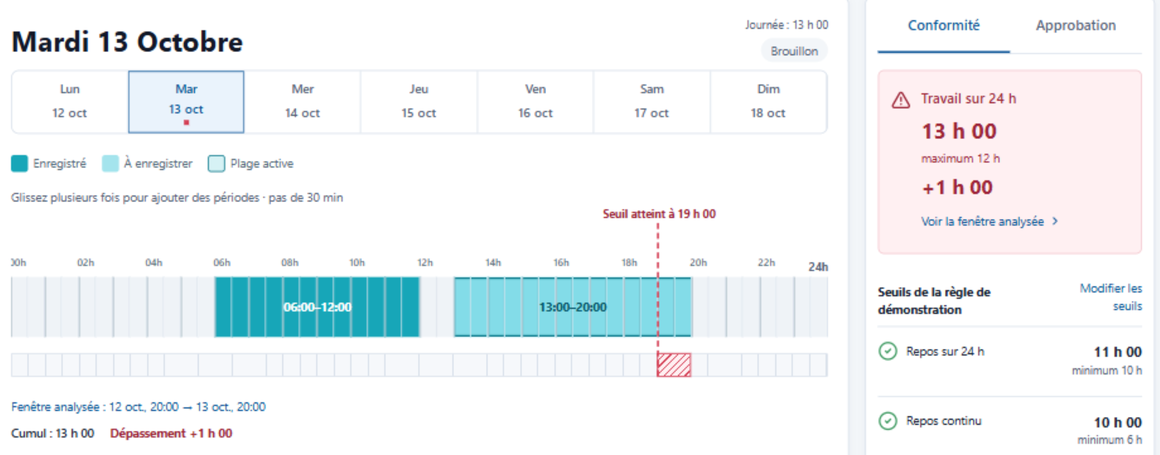
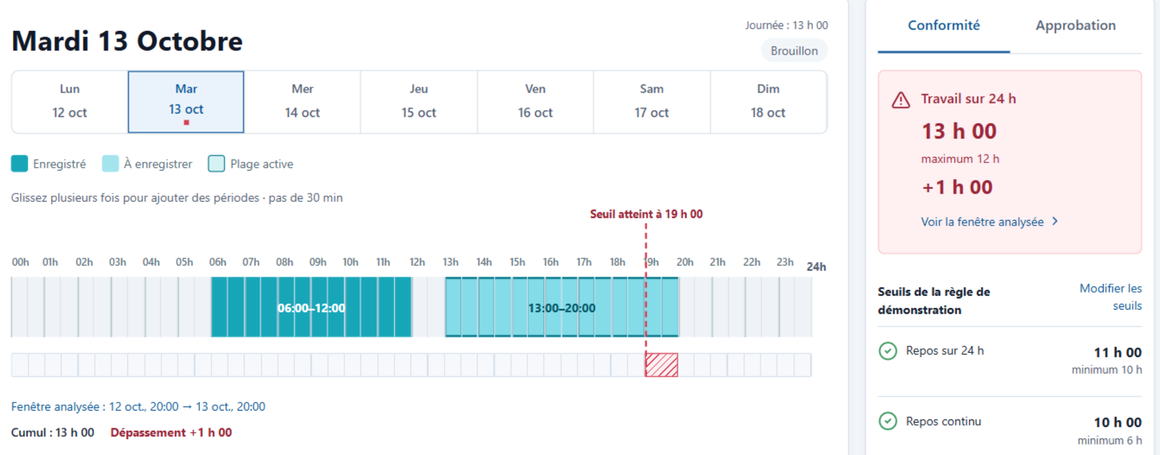
fix: show every hour on working time preview timeline

diff --git a/src/features/workingTime/preview/workingTimePreview.css b/src/features/workingTime/preview/workingTimePreview.css
@@ -65,18 +65,18 @@ body:has(.wtp) { margin: 0; background: var(--sp-canvas); }
 .wtp .working-time-timeline-legend i.is-pending { background: #a4e4ed; }
 .wtp .working-time-timeline-legend i.is-selected { border: 1px solid #087789; background: #d6f2f5; }
 .wtp .working-time-timeline-legend small { flex-basis: 100%; color: var(--sp-muted); font-size: 12px; }
-.wtp .working-time-timeline-track { min-width: 600px; padding: 28px 0 0; }
+.wtp .working-time-timeline-track { min-width: 616px; padding: 28px 16px 0 0; }
 .wtp .working-time-timeline { position: relative; display: grid; grid-template-columns: repeat(48, minmax(0, 1fr)); min-width: 600px; width: 100%; padding: 27px 0 0; }
 .wtp .working-time-preview-phase-labels { position: absolute; bottom: 0; left: 0; width: 100%; height: 60px; pointer-events: none; }
 .wtp .working-time-preview-phase-labels span { position: absolute; display: flex; align-items: center; justify-content: center; height: 100%; overflow: hidden; color: #fff; font-size: 12px; font-weight: 700; white-space: nowrap; }
 .wtp .working-time-preview-phase-labels span.is-pending { color: #07586a; }
-.wtp .working-time-timeline::after { top: 9px; right: 0; color: var(--sp-muted); font-size: 11px; }
+.wtp .working-time-timeline::after { top: 9px; right: -14px; color: var(--sp-muted); font-size: 11px; }
 .wtp .working-time-timeline button { height: 60px; border-right: 1px solid #d8e0ea; color: var(--sp-text); background: #eff3f7; touch-action: none; }
 .wtp .working-time-timeline button.is-occupied { background: #17a6b8; }
 .wtp .working-time-timeline button.is-pending { background: #a4e4ed; box-shadow: inset 0 1px #087789, inset 0 -1px #087789; }
 .wtp .working-time-timeline button.is-selected { background: #83dce8; box-shadow: inset 0 2px #087789, inset 0 -2px #087789; }
 .wtp .working-time-timeline time { top: -22px; left: -3px; font-size: 10px; font-weight: 500; }
-.wtp .working-time-timeline button:nth-child(4n + 3) time { visibility: hidden; }
+.wtp .working-time-timeline button:first-child time { left: 0; }
 .wtp .working-time-preview-graph { padding-top: 16px; font-size: 12px; }
 .wtp .working-time-preview-range-rail { position: relative; height: 24px; margin-bottom: 20px; border: 1px solid var(--sp-border); border-radius: 2px; background: repeating-linear-gradient(90deg, #f6f8fb 0, #f6f8fb calc(100% / 48 - 1px), var(--sp-border) calc(100% / 48 - 1px), var(--sp-border) calc(100% / 48)); }
 .wtp .working-time-preview-excess-range { position: absolute; top: -1px; bottom: -1px; border: 1px solid #d43f55; background: repeating-linear-gradient(135deg, #fff0f2 0, #fff0f2 4px, #d43f55 4px, #d43f55 5px); }

diff --git a/src/features/workingTime/WorkingTimeEntryBoard.test.tsx b/src/features/workingTime/WorkingTimeEntryBoard.test.tsx
@@ -167,6 +167,16 @@ describe('WorkingTimeEntryBoard', () => {
     expect(screen.getAllByRole('gridcell')).toHaveLength(48);
   });
 
+  it('provides an hourly graduation for all 24 hours while retaining half-hour preview cells', () => {
+    render(<Harness previewGraph={previewGraph} />);
+
+    const graduationLabels = Array.from(screen.getByRole('grid').querySelectorAll('time'))
+      .map((element) => element.textContent)
+      .filter(Boolean);
+    expect(graduationLabels).toEqual(Array.from({ length: 24 }, (_, hour) => `${String(hour).padStart(2, '0')}h`));
+    expect(screen.getAllByRole('gridcell')).toHaveLength(48);
+  });
+
   it('shows other rule alerts beside the graph and includes them in its accessible description', () => {
     render(<Harness previewGraph={{ ...previewGraph, ruleAlerts: ['Repos sur 24 h : manque 2 h', 'Amplitude : dépassement de 1 h'] }} />);
 

diff --git a/design-qa.md b/design-qa.md
@@ -1383,6 +1383,9 @@ entry board. The explicit window label and cumulative value replace the mock's
 decorative arrow. The approval badge reflects actual demo state; an unsigned
 day does not show a fictitious waiting approval. The newly requested threshold
 editor and calendar-day total are added to the selected design.
+The user's subsequent request changes the axis to hourly labels (00 h–24 h),
+while retaining all 48 half-hour input cells. The final captures show this
+intentional difference from the source's two-hour labels.
 
 ## Five fidelity surfaces
 
@@ -1416,6 +1419,11 @@ editor and calendar-day total are added to the selected design.
 3. Final full and focused comparisons have no remaining actionable P0/P1/P2
    findings. The shared ribbon differs from the illustrative one-line mock by
    design; it follows the repository's required component instead.
+4. After the hourly-graduation request, all 24 time labels were verified as
+   visible in the browser. Space at the end of the track separates 23 h from
+   24 h; the first label no longer clips at the left edge. Desktop track width
+   remains 817/817. Updated full/focused captures were compared again with the
+   reference; no new actionable P0/P1/P2 finding remains.
 
 ## Browser interaction evidence
 
@@ -1425,10 +1433,11 @@ editor and calendar-day total are added to the selected design.
 - Keyboard entry: adding 20:00–21:00 yields 14 h of work, 2 h excess and a
   separate 15 h amplitude alert near the chart. Saving keeps these recorded
   facts and clears the pending selection without approving the day.
-- Mobile document width 375 ≤ viewport width 390; timeline scroll width 600
+- Mobile document width 375 ≤ viewport width 390; timeline scroll width 616
   stays inside its 325-pixel panel. There is no page-wide horizontal overflow.
 - Browser console: no warning/error after threshold, entry and save interactions.
-- Automatic checks: 204 working-time tests across 20 files; targeted ESLint;
+- Automatic checks: 204 working-time tests across 20 files, followed by 26/26
+  entry-board tests including the new hourly-graduation case; targeted ESLint;
   TypeScript and production build successful. Existing build warnings about
   other modules' chunk sizes/dynamic imports remain unrelated.
 - Real Marin/Capitaine verification uses role-gated code and existing profile

diff --git a/docs/design/working-time-entry-preview.md b/docs/design/working-time-entry-preview.md
@@ -13,7 +13,9 @@ et une sélection de 13:00 à 20:00. Le cumul de 13 heures sur la fenêtre gliss
 du 12 octobre à 20:00 au 13 octobre à 20:00 dépasse le seuil de 12 heures :
 le repère apparaît à 19:00 et la bande d'écart couvre 19:00–20:00. Les valeurs
 sont recalculées dès la saisie, sans attendre la recommandation asynchrone.
-Le total de la journée et le cumul glissant sont affichés séparément.
+Le total de la journée et le cumul glissant sont affichés séparément. Les
+graduations apparaissent à chaque heure de 00 h à 24 h, tout en conservant les
+48 cellules de saisie de 30 minutes.
 
 Dans **Conformité → Modifier les seuils**, huit paramètres sont réglables :
 
